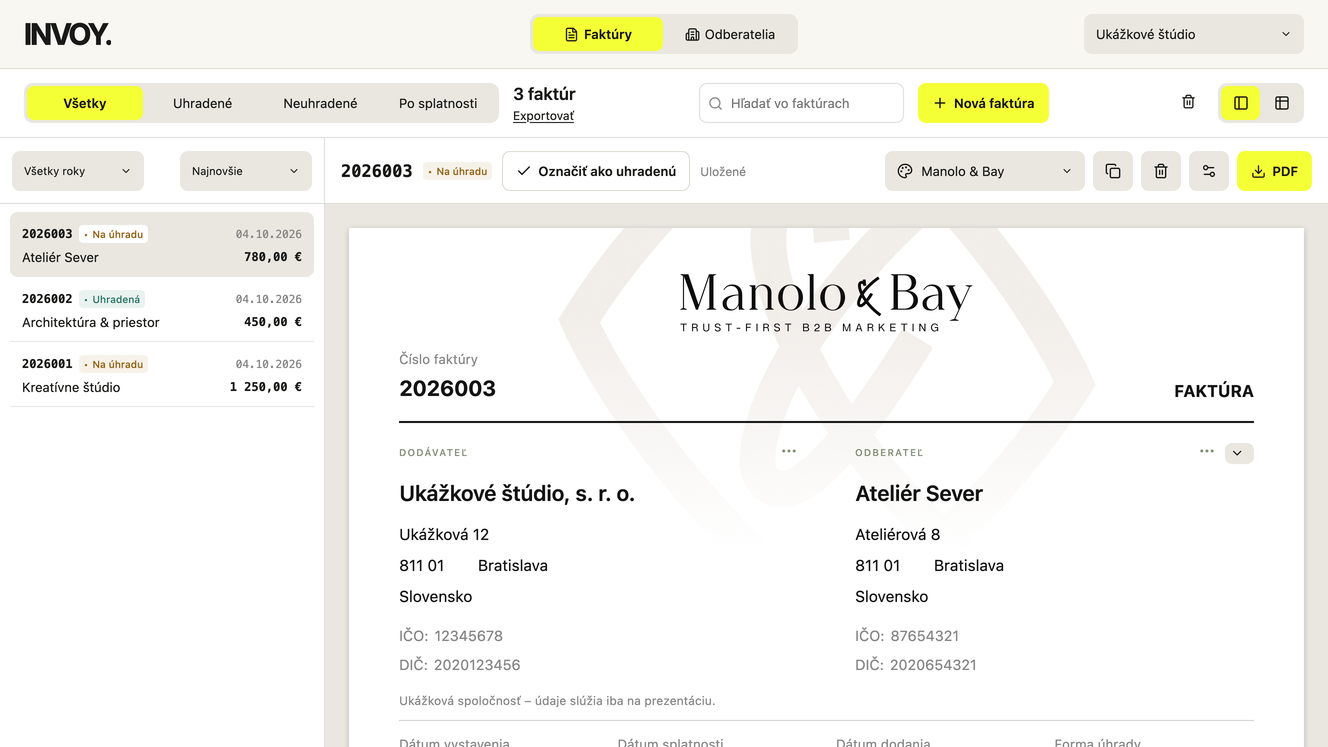
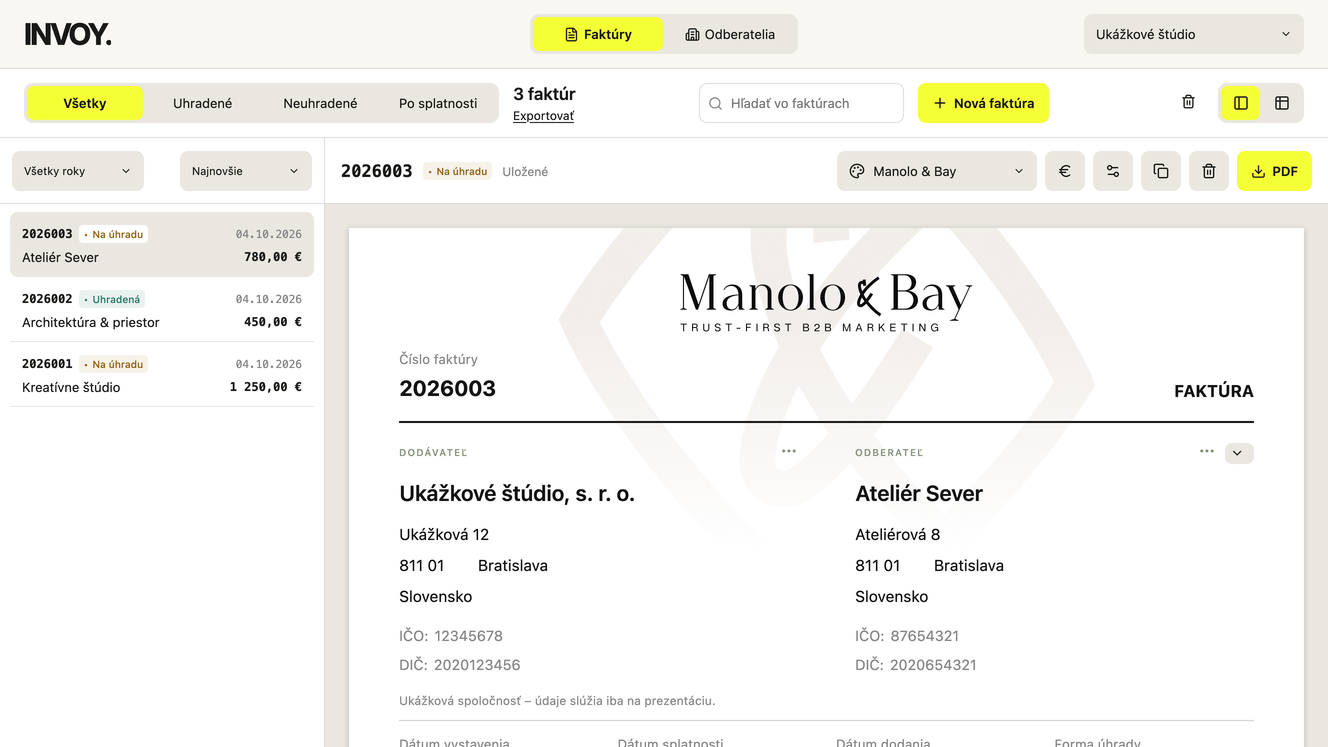
Pridať prepínanie úhrady cez ikonu € a upraviť poradie akcií

Changed region(s): [[0.6175, 0.1847, 0.8027, 0.2771], [0.3705, 0.2155, 0.5557, 0.2463], [0.8336, 0.2155, 0.9262, 0.2463]]

diff --git a/Sources/INVOY/Editors.swift b/Sources/INVOY/Editors.swift
@@ -123,13 +123,6 @@ struct InvoiceEditor: View {
     @ViewBuilder private var editorHeading: some View {
         Text.numeric(invoice.number, size: 16, weight: .semibold, monospaced: true)
         StatusBadge(invoice: invoice)
-        if invoice.remaining > 0 {
-            Button {
-                draft.invoice.paid = invoice.total
-            } label: { Label("Označiť ako uhradenú", systemImage: "checkmark") }
-                .buttonStyle(BrandSecondaryButtonStyle())
-                .fixedSize()
-        }
         Text(draft.saveLabel).font(.system(size: 10))
             .foregroundStyle(draft.saveState == .failed ? .red : .secondary)
             .lineLimit(2).frame(maxWidth: 110, alignment: .leading)
@@ -141,10 +134,11 @@ struct InvoiceEditor: View {
             .frame(width: 200)
             .help("Šablóna faktúry: " + (invoice.cloudStyle?.name ?? invoice.resolvedTemplate(default: store.database.settings.defaultInvoiceTemplate).title))
             .accessibilityLabel("Šablóna faktúry")
-        IconButton("Duplikovať", "doc.on.doc", action: onDuplicate)
+        IconButton("Pridať úhradu", "eurosign") {
+            draft.invoice.paid = invoice.remaining > 0 ? invoice.total : 0
+        }
             .buttonStyle(BrandIconButtonStyle())
-        IconButton("Vymazať", "trash", action: onDelete)
-            .buttonStyle(BrandIconButtonStyle())
+            .accessibilityValue(invoice.remaining > 0 ? "Na úhradu" : "Uhradená")
         IconButton("Možnosti faktúry", "slider.horizontal.3") { options.toggle() }
             .buttonStyle(BrandIconButtonStyle())
             .popover(isPresented: $options) {
@@ -152,6 +146,10 @@ struct InvoiceEditor: View {
                     .background(Color(nsColor: .windowBackgroundColor))
                     .presentationBackground(Color(nsColor: .windowBackgroundColor))
             }
+        IconButton("Duplikovať", "doc.on.doc", action: onDuplicate)
+            .buttonStyle(BrandIconButtonStyle())
+        IconButton("Vymazať", "trash", action: onDelete)
+            .buttonStyle(BrandIconButtonStyle())
         Button { if draft.flush() { store.exportPDF(draft.invoice) } } label: { Label("PDF", systemImage: "square.and.arrow.down") }
             .buttonStyle(BrandButtonStyle()).disabled(!draft.canExport)
             .help("Uložiť PDF")
@@ -161,12 +159,6 @@ struct InvoiceEditor: View {
         VStack(alignment: .leading, spacing: 16) {
             InvoiceTemplatePicker(draft: draft)
             Divider()
-            if invoice.remaining > 0 {
-                Button {
-                    draft.invoice.paid = invoice.total
-                    options = false
-                } label: { Label("Označiť ako uhradenú", systemImage: "checkmark") }
-            }
             Toggle("Uviesť dátum dodania", isOn: Binding(get: { invoice.deliveryDate != nil }, set: { draft.invoice.deliveryDate = $0 ? invoice.issueDate : nil }))
             Field("Objednávka", text: $draft.invoice.orderNumber, numeric: true)
             HStack {

diff --git a/web/src/InvoiceEditor.tsx b/web/src/InvoiceEditor.tsx
@@ -1,6 +1,6 @@
 import { BrandSelect } from './BrandSelect';
 import { useEffect, useRef, useState } from 'react';
-import { Check, Copy, Download, History, Palette, Settings2, Trash2 } from 'lucide-react';
+import { Euro, Copy, Download, History, Palette, Settings2, Trash2 } from 'lucide-react';
 import {
   invoiceSchema,
   invoiceInput,
@@ -178,14 +178,6 @@ export function InvoiceEditor({
         <span className={'native-status' + (paid ? ' paid' : overdue ? ' overdue' : '')}>
           {paid ? 'Uhradená' : overdue ? 'Po splatnosti' : 'Na úhradu'}
         </span>
-        {!paid && (
-          <button
-            className="button secondary"
-            onClick={() => update({ paid: totals(invoice).total })}
-          >
-            <Check size={16} aria-hidden="true" /> Označiť ako uhradenú
-          </button>
-        )}
         <span className="save-state">{busy ? 'Ukladám…' : dirty ? 'Rozpracované' : 'Uložené'}</span>
         <div className="toolbar-actions">
           <BrandSelect
@@ -205,6 +197,21 @@ export function InvoiceEditor({
             ))}
           </BrandSelect>
           <button
+            title="Pridať úhradu"
+            aria-label="Pridať úhradu"
+            aria-pressed={paid}
+            onClick={() => update({ paid: paid ? '0' : totals(invoice).total })}
+          >
+            <Euro size={16} aria-hidden="true" />
+          </button>
+          <button
+            title="Možnosti faktúry"
+            aria-label="Možnosti faktúry"
+            onClick={() => setOptions(true)}
+          >
+            <Settings2 size={16} />
+          </button>
+          <button
             title="Duplikovať"
             aria-label="Duplikovať"
             onClick={() => onDuplicate(latest.current)}
@@ -213,13 +220,6 @@ export function InvoiceEditor({
           </button>
           <button title="Vymazať" aria-label="Vymazať" onClick={onDelete}>
             <Trash2 size={16} />
-          </button>
-          <button
-            title="Možnosti faktúry"
-            aria-label="Možnosti faktúry"
-            onClick={() => setOptions(true)}
-          >
-            <Settings2 size={16} />
           </button>
           <button
             className="button"
